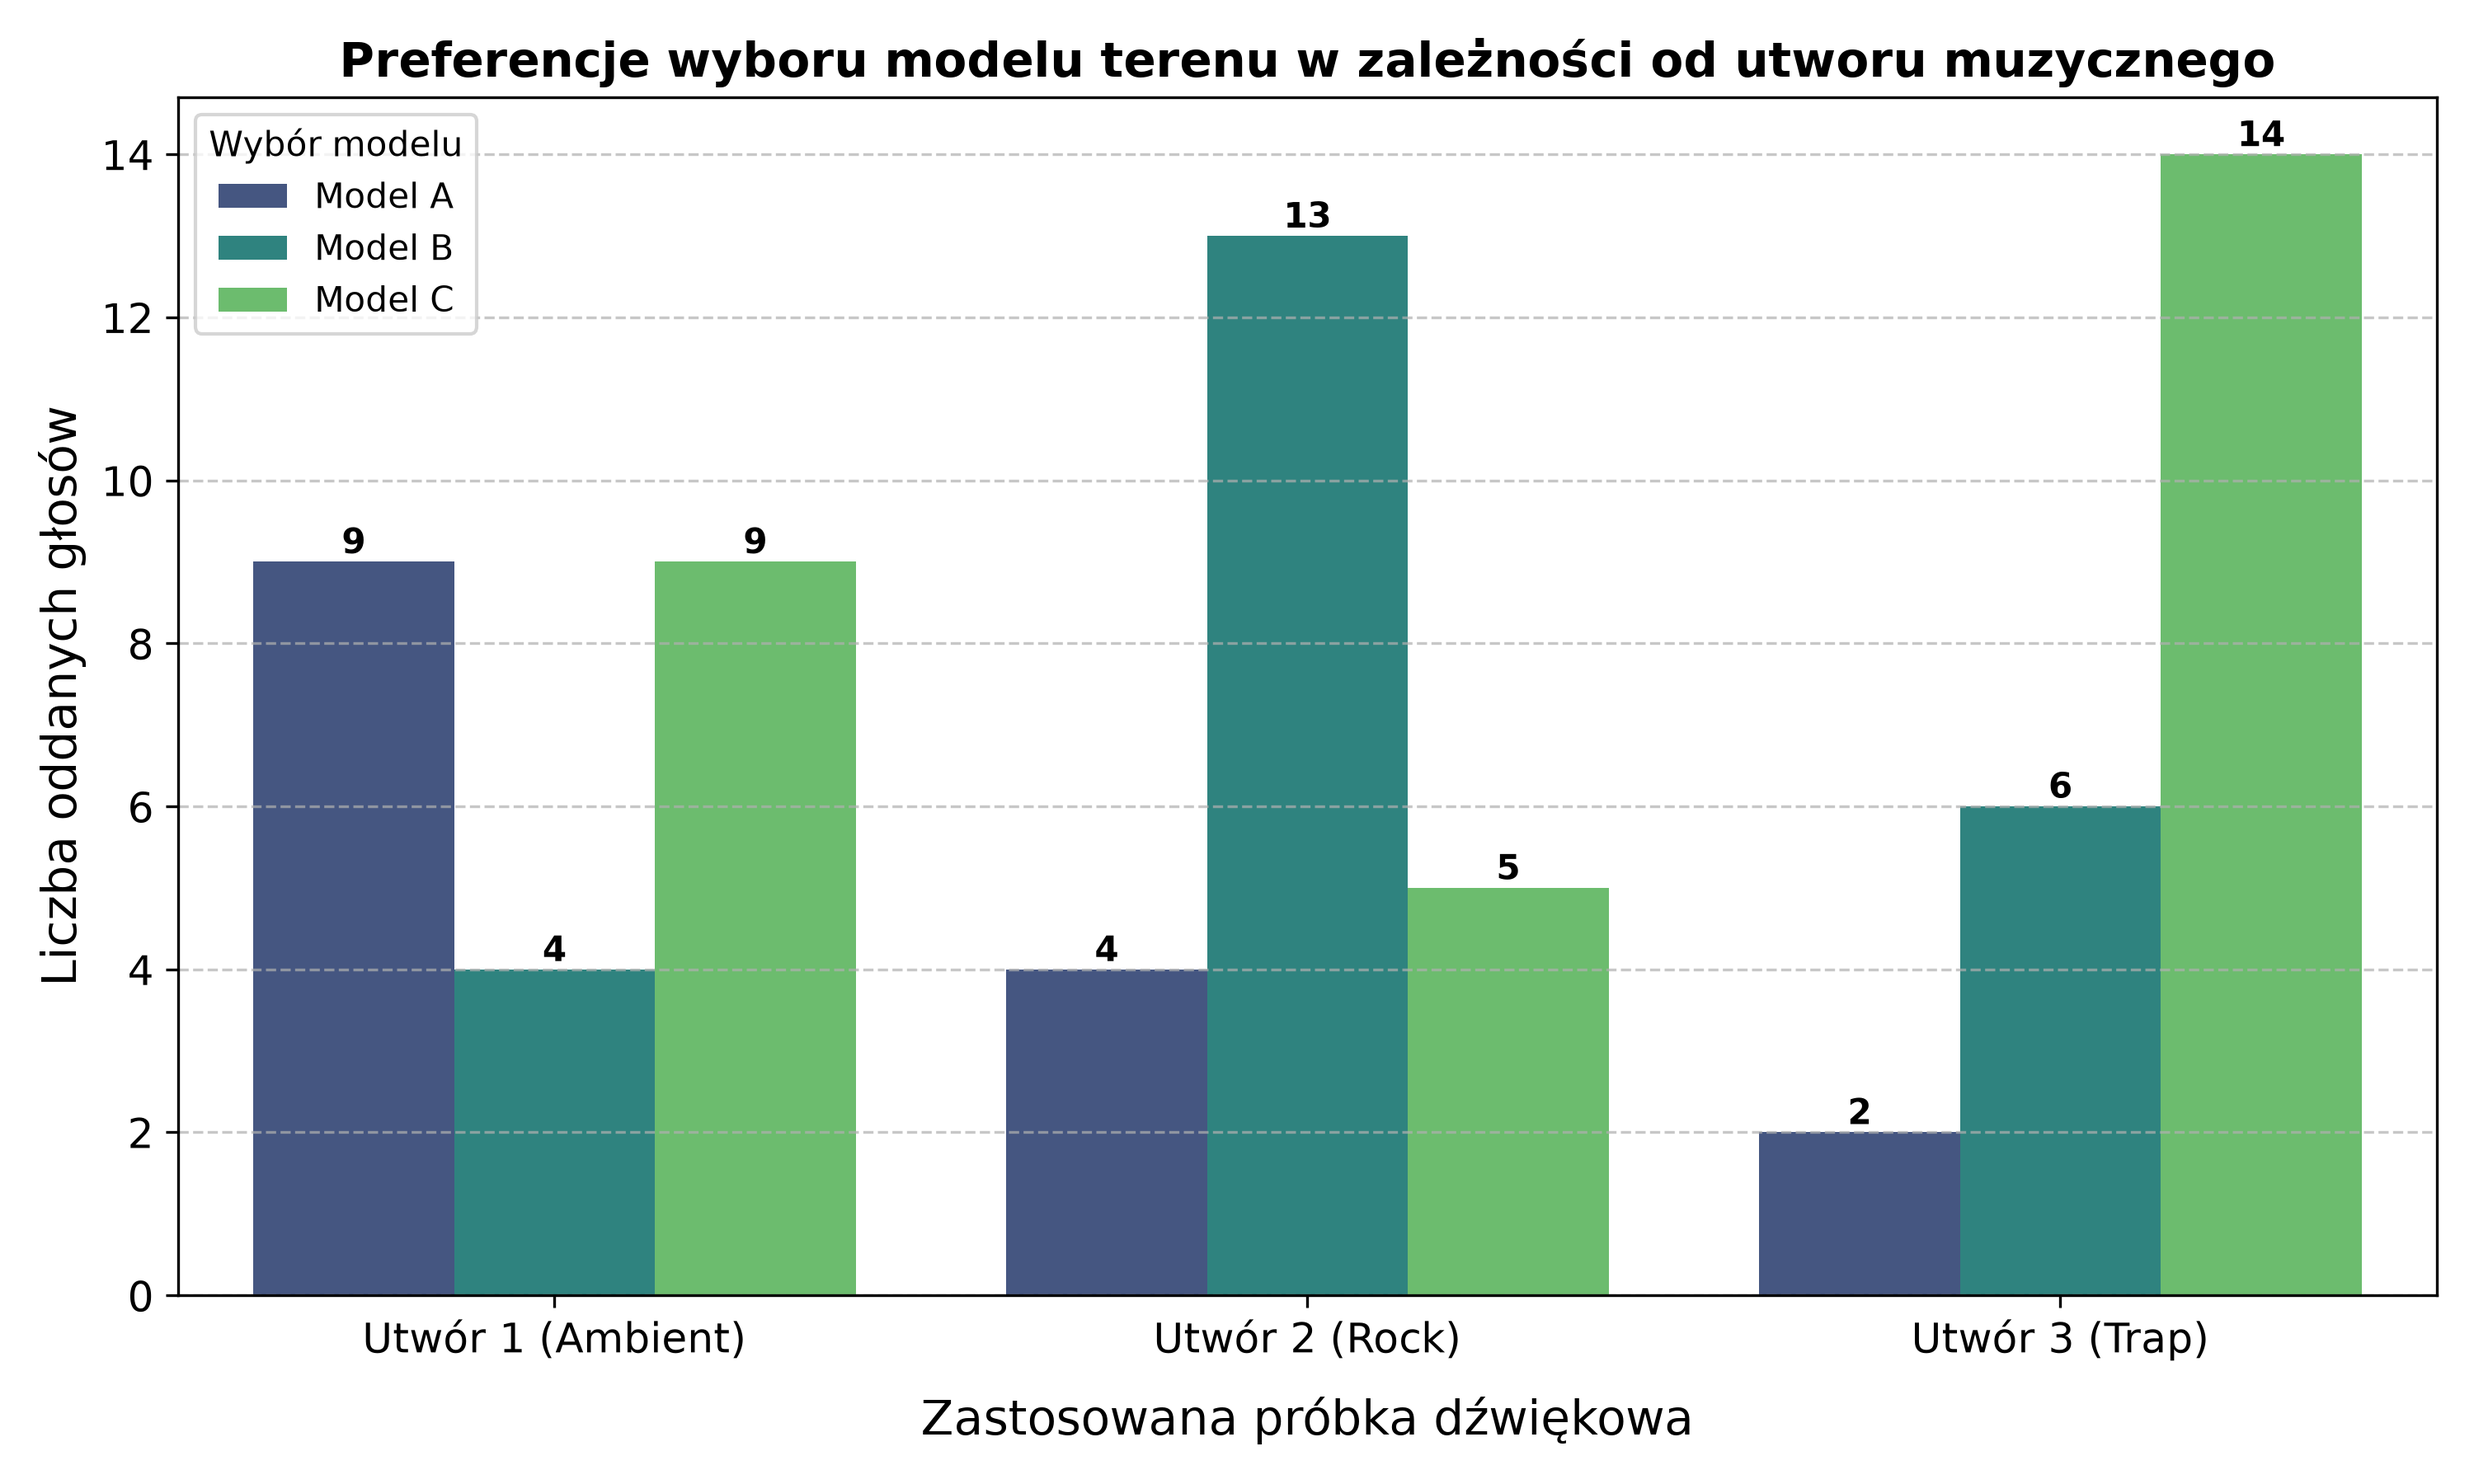
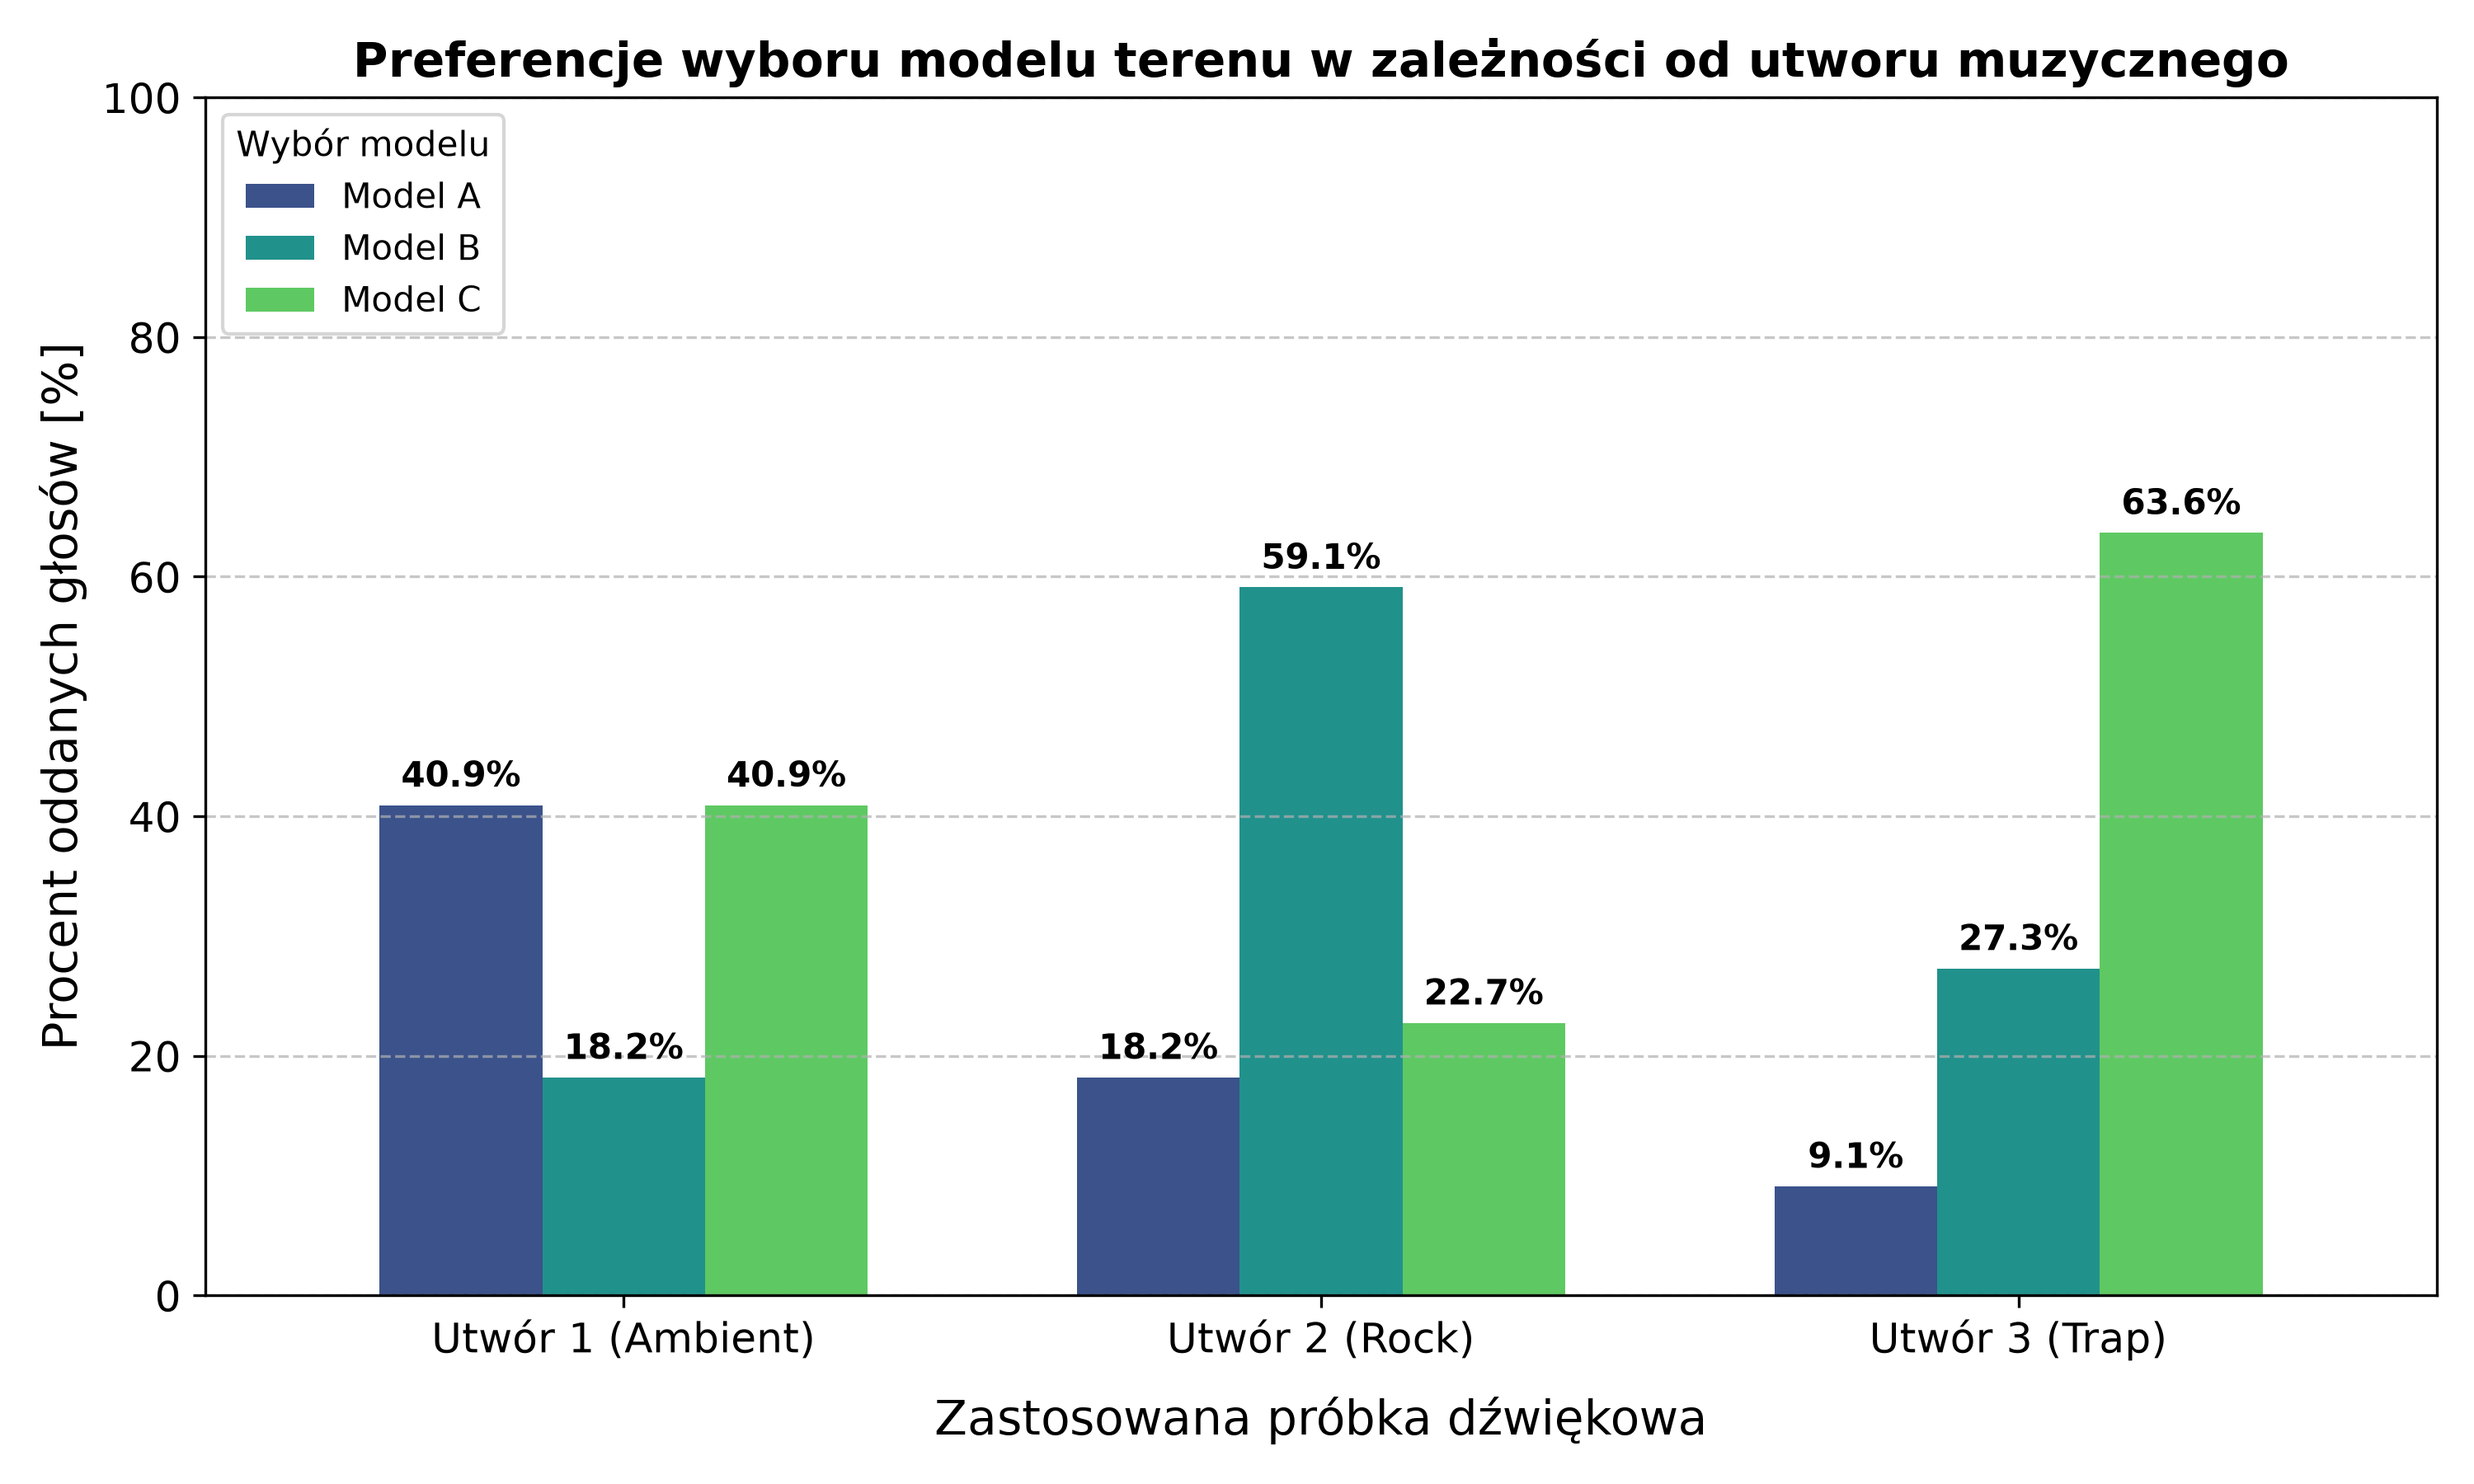
Zmieniono wykres na procentowy

diff --git a/AnalizaAnkiety/analiza_ankiety.py b/AnalizaAnkiety/analiza_ankiety.py
@@ -224,39 +224,45 @@ def analizuj_ankiete(sciezka_excel):
 
     df_wybory_utwory.dropna(inplace=True)
 
-    plt.figure(figsize=(10, 6))
-    ax_utwory = sns.countplot(
-        data=df_wybory_utwory,
-        x='Utwór',
-        hue='Wybór Modelu',
-        palette='viridis',
-        hue_order=kolejnosc_modeli
-    )
+    # Tworzymy tabelę przestawną z normalizacją wierszową (index) i mnożymy przez 100
+    kolejnosc_utworow = ['Utwór 1 (Ambient)', 'Utwór 2 (Rock)', 'Utwór 3 (Trap)']
+    cross_utwory = pd.crosstab(df_wybory_utwory['Utwór'], df_wybory_utwory['Wybór Modelu'], normalize='index') * 100
+    cross_utwory = cross_utwory.reindex(index=kolejnosc_utworow, columns=kolejnosc_modeli).fillna(0)
 
-    plt.title('Preferencje wyboru modelu terenu w zależności od utworu muzycznego', fontweight='bold', fontsize=14)
-    plt.ylabel('Liczba oddanych głosów', fontsize=14)
-    plt.xlabel('Zastosowana próbka dźwiękowa', fontsize=14, labelpad=10)
-    plt.xticks(fontsize=12)
-    plt.yticks(fontsize=12)
-    plt.legend(title='Wybór modelu', loc='upper left')
+    # Generowanie wykresu słupkowego za pomocą wbudowanej metody z pandas
+    ax_utwory = cross_utwory.plot(kind='bar', figsize=(10, 6),
+                                  color=sns.color_palette('viridis', len(kolejnosc_modeli)), width=0.7)
 
-    plt.grid(axis='y', linestyle='--', alpha=0.7)
+    ax_utwory.set_title('Preferencje wyboru modelu terenu w zależności od utworu muzycznego', fontweight='bold',
+                        fontsize=14)
+    ax_utwory.set_ylabel('Procent oddanych głosów [%]', fontsize=14)
+    ax_utwory.set_xlabel('Zastosowana próbka dźwiękowa', fontsize=14, labelpad=10)
 
+    ax_utwory.tick_params(axis='x', rotation=0, labelsize=12)
+    ax_utwory.tick_params(axis='y', labelsize=12)
+    ax_utwory.set_ylim(0, 100)
+    ax_utwory.legend(title='Wybór modelu', loc='upper left')
+
+    ax_utwory.grid(axis='y', linestyle='--', alpha=0.7)
+
+    # Dodawanie procentowych adnotacji na szczytach słupków
     for p in ax_utwory.patches:
         height = p.get_height()
         if height > 0:
             ax_utwory.annotate(
-                f'{int(height)}',
+                f'{height:.1f}%',
                 (p.get_x() + p.get_width() / 2., height),
                 ha='center',
                 va='bottom',
-                fontweight='bold'
+                fontweight='bold',
+                xytext=(0, 3),
+                textcoords='offset points'
             )
 
     plt.tight_layout()
     plt.savefig('Ankieta_05_Wybory_Utwory.png', dpi=300)
     plt.close()
-    print("Wygenerowano wykres 05: Preferencje wyboru modelu w zależności od utworu")
+    print("Wygenerowano wykres 05: Preferencje wyboru modelu w zależności od utworu (procentowy)")
 
 
 if __name__ == "__main__":
